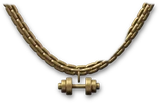
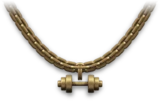
Add the boar GymBro and replace the elephant chain

Changed region(s): [[0.0, 0.0, 1.0, 0.9505]]

diff --git a/app.js b/app.js
@@ -1,8 +1,7 @@
 import { supabase } from './supabase.mjs';
 import {t,setLanguage,uiLocale} from './locale.mjs';
 import {lifts,liftResults,clanProfile,workoutRecord,workoutActivities,clanRequest,friendsRequest,profileRequest} from './clans.mjs';
-import {layout} from './assets/layout.js';
-import {muscleTargets} from './assets/muscle-targets.mjs';
+import {models,modelFor} from './models.mjs';
 import {items,wardrobeFrom,legacyProgress,progression,buyItem,toggleItem,XP_PER_DAY,XP_PER_RECORD,COINS_PER_LEVEL} from './gymbro.mjs';
 import {plans,muscles,standard,example,normalize,weightsFor,completedCount,newDraft,blankSet,newId,previousBest,exerciseHistory,numberedCompletedSets,exerciseConfig,MAX_PLAN_SETS,MAX_PLAN_REPS,elapsedSeconds,remainingSeconds,timeLabel,statsFor,dayKey,weekKeys,recentSessions} from './training.mjs';
 
@@ -153,6 +152,7 @@ const route=()=>Object.hasOwn(views,location.hash.slice(1))?location.hash.slice(
 
 function preferredSide(session){
   if(!session) return 'przod';
+  const {layout}=activeModel();
   const {map}=statsFor([session],data.custom,data.threshold);
   const total=side=>Object.keys(layout[side].warstwy).reduce((sum,key)=>sum+(map[key]?.weighted??0),0);
   return total('tyl')>total('przod')?'tyl':'przod';
@@ -179,6 +179,7 @@ function modelMotionStyle(){
   return '--breath-delay:-'+(elapsed%4200).toFixed(0)+'ms;--aura-delay:-'+(elapsed%5600).toFixed(0)+'ms';
 }
 function stage(context){
+  const {layout,targets:hitAreas,root,id}=activeModel();
   const shape=layout[side];
   const [w,h]=shape.plotno;
   const part=side==='przod'?t('Przód'):t('Tył');
@@ -186,14 +187,14 @@ function stage(context){
     const value=intensity(context,key);
     const opacity=.25+.75*value;
     return '<img class="glow" data-glow="'+key+'" style="--opacity:'+opacity+'" '+(!value?'hidden':'')+' src="'+layer.plik+'" alt="" draggable="false">'+
-      (value?'<img class="muscle-sparks" src="'+layer.plik.replace('assets/','assets/sparks/')+'" style="--spark:'+opacity*.8+'" alt="" draggable="false">':'');
+      (value?'<img class="muscle-sparks" src="'+root+'sparks/'+layer.plik.slice(root.length)+'" style="--spark:'+opacity*.8+'" alt="" draggable="false">':'');
   }).join('');
   const targets='<svg class="muscle-targets" viewBox="0 0 '+w+' '+h+'" aria-label="'+t('Wybierz partię na postaci')+'">'+
     Object.entries(shape.warstwy).map(([key,layer])=>
       '<g role="button" tabindex="0" data-act="muscle" data-key="'+key+'" aria-label="'+esc(t(layer.nazwa))+'">'+
-      '<path fill-rule="evenodd" d="'+muscleTargets[side][key]+'"></path></g>').join('')+'</svg>';
+      '<path fill-rule="evenodd" d="'+hitAreas[side][key]+'"></path></g>').join('')+'</svg>';
   return '<div class="map-stage"><span class="stage-tag">'+(context.demo?t('Dane przykładowe'):(context.latest?'GymBro':t('Brak treningów')))+'</span>'+
-    '<div class="figure" style="aspect-ratio:'+w+'/'+h+'"><img src="assets/'+side+'_baza.webp" alt="GymBro — '+part+'" draggable="false"><img src="assets/'+side+'_kontury.webp" alt="" draggable="false">'+layers+targets+'</div>'+
+    '<div class="figure" data-model="'+id+'" style="aspect-ratio:'+w+'/'+h+'"><img src="'+root+side+'_baza.webp" alt="GymBro — '+part+'" draggable="false"><img src="'+root+side+'_kontury.webp" alt="" draggable="false">'+layers+targets+'</div>'+
     '<span class="stage-axis">'+part+'</span></div>';
 }
 function mapCard(context){
@@ -264,6 +265,7 @@ const skinName=skin=>data.language==='en'?skin.en:skin.name;
 const levelText=level=>t('Poziom')+' '+level;
 const skinLevel=()=>data.skinPreview===null?currentProgress().level:skinTestLevel;
 const activeSkin=()=>data.skinPreview??unlockedSkin(data.wardrobe.skin,currentProgress().level);
+function activeModel(){return modelFor(data.wardrobe.model);}
 function skinTestBadge(){
   return data.skinPreview===null?'':'<p class="skin-test-badge">'+t('Tryb testowy')+' · '+levelText(skinTestLevel)+'</p>';
 }
@@ -281,16 +283,16 @@ function tenureText(months){
   if(!months) return t('Staż krótszy niż miesiąc');
   return tenureDuration(months)+' '+t('stażu');
 }
-function buddyModel(view,preview=null,shine=null,{worn=data.wardrobe.worn,skin=activeSkin()}={}){
-  const [width,height]=layout[view].plotno;
-  const description=view==='przod'?t('GymBro od przodu'):t('GymBro od tyłu');
+function buddyModel(view,preview=null,shine=null,{worn=data.wardrobe.worn,skin=activeSkin(),model=activeModel()}={}){
+  const [width,height]=model.layout[view].plotno;
+  const description=t(model.name)+' · '+t(view==='przod'?'Przód':'Tył');
   const visible=items.filter(item=>(worn.includes(item.id)||preview===item.id)&&(view==='przod'||item.back));
-  const asset='assets/ubrania/'+view+'-';
+  const asset=model.root+'ubrania/'+view+'-';
   const glint=visible.some(item=>item.id===shine)?
     '<span class="outfit-glint" aria-hidden="true" style="--outfit-mask:url('+asset+shine+'.webp)"></span>':'';
   const base=asset+'baza.webp';
   const finish=skin==='default'?'':'<span class="buddy-finish" style="--buddy-art:url('+base+')" aria-hidden="true"></span>';
-  return '<div class="buddy-figure" data-skin="'+esc(skin)+'" style="aspect-ratio:'+width+'/'+height+'"><img class="buddy-base" src="'+base+'" alt="'+description+'" draggable="false">'+finish+
+  return '<div class="buddy-figure" data-model="'+model.id+'" data-skin="'+esc(skin)+'" style="aspect-ratio:'+width+'/'+height+'"><img class="buddy-base" src="'+base+'" alt="'+description+'" draggable="false">'+finish+
     visible.map(item=>'<img src="'+asset+item.id+'.webp" data-worn="'+item.id+'" alt="'+t(item.name)+'" draggable="false">').join('')+glint+'</div>';
 }
 function homeBuddy(){
@@ -306,7 +308,7 @@ function wardrobeItem(item,coins){
   const wearing=worn.includes(item.id);
   const trying=tryOn===item.id;
   const attr=' type="button" data-key="'+item.id+'"';
-  return '<article class="outfit-row"><div class="outfit-thumb"><img src="assets/ubrania/produkt-'+item.id+'.webp" alt=""></div>'+
+  return '<article class="outfit-row"><div class="outfit-thumb"><img src="'+activeModel().root+'ubrania/produkt-'+item.id+'.webp" alt=""></div>'+
     '<div class="outfit-description"><h3>'+t(item.name)+'</h3><span class="meta">'+t(item.slot)+(wearing?' '+t('· Założone'):fits?' '+t('· Kupione'):'')+'</span>'+
     '<div class="outfit-actions">'+(fits?'<button class="btn ghost" data-act="outfit-toggle"'+attr+' aria-label="'+(wearing?t('Zdejmij')+' ':t('Załóż')+' ')+t(item.name)+'">'+(wearing?t('Zdejmij'):t('Załóż'))+'</button>':
       '<button class="btn ghost" data-act="outfit-try"'+attr+' aria-pressed="'+trying+'" aria-label="'+t('Przymierz:')+' '+t(item.name)+'">'+(trying?t('Zakończ podgląd'):t('Przymierz'))+'</button>'+
@@ -338,6 +340,7 @@ function showGymBro(shine){
   return heading(t('Twój')+' <em>GymBro</em>',t('Personalizuj postać i odblokowuj ubranka za monety.'))+
     '<div class="stack"><section class="card card-pad buddy-card"><div class="card-head">'+
     segment(t('Widok GymBro'),avatarSide,[['przod',t('Przód')],['tyl',t('Tył')]],'avatar-side')+coinBalance(player.coins)+'</div>'+
+    segment(t('Postać GymBro'),activeModel().id,models.map(({id,name})=>[id,t(name)]),'select-model')+
     '<div class="buddy-stage" style="'+modelMotionStyle()+'">'+buddyModel(avatarSide,tryOn,shine)+
     (preview?'<span class="buddy-preview-tag">'+t('Przymiarka ·')+' '+t(preview.name)+'</span>':'')+'</div>'+skinTestBadge()+xpBar(player)+streakInfo(player)+
     '<p class="meta xp-note">'+XP_PER_DAY+' '+t('XP za pierwszy zapisany trening dnia, z mnożnikiem do ×1,5 za tygodnie z rzędu. Pierwszy nowy rekord dnia daje dodatkowe')+' '+XP_PER_RECORD+' '+t('XP. Za każdy awans dostajesz')+' '+COINS_PER_LEVEL+' '+t('monet')+'.</p></section>'+
@@ -421,6 +424,7 @@ function showHome(){
 }
 function showMap(){
   const context=mapData();
+  const {layout}=activeModel();
   const chips=Object.entries(layout[side].warstwy)
     .sort(([a],[b])=>intensity(context,b)-intensity(context,a))
     .map(([key,m])=>'<button type="button" class="muscle" data-act="muscle" data-key="'+key+'"><b>'+esc(t(m.nazwa))+'</b><span><i style="width:'+100*intensity(context,key)+'%"></i></span></button>').join('');
@@ -584,7 +588,7 @@ function liftCards(results={}){
 }
 function profileAvatar(person,own=false){
   if(own) return buddyModel('przod');
-  return buddyModel('przod',null,null,{worn:person.worn??[],skin:person.previewSkin??person.skin??'default'});
+  return buddyModel('przod',null,null,{worn:person.worn??[],skin:person.previewSkin??person.skin??'default',model:modelFor(person.model)});
 }
 function clanLeaderBadge(id){
   return id===clanState.clan?.ownerId?'<span class="clan-leader-badge">'+t('Lider')+'</span>':'';
@@ -1106,7 +1110,7 @@ function openMuscle(key){
     } else if (!layer.hidden) layer.style.opacity='.25';
     layer.style.animation='none';
   }
-  openModal(esc(t(layout[side].warstwy[key].nazwa)),
+  openModal(esc(t(activeModel().layout[side].warstwy[key].nazwa)),
     (context.demo?'<p class="meta">'+t('Przykładowe obciążenie')+'</p>':'<div class="stats"><div><span class="meta">'+t('Liczba serii')+'</span><strong>'+(stat?.sets??0)+'</strong></div><div><span class="meta">'+t('Ostatni trening')+'</span><strong>'+
     (stat?.recent?formatter.format(stat.recent):'–')+'</strong></div></div>')+
     '<p class="meta">'+t('Intensywność na mapie:')+' '+Math.round(value*100)+'%</p>'+action(t('Zamknij'),'close','primary'));
@@ -1334,12 +1338,13 @@ function showPicker(){
   drawCatalog();
 }
 function catalogThumb(label){
+  const {layout,root}=activeModel();
   const frames=previewFrames(layout,weightsFor(label,data.custom));
   if(!frames.length) return '<span class="catalog-thumb" aria-hidden="true">'+icon('dumbbell')+'</span>';
   return '<span class="catalog-thumb '+(frames.length>1?'dual':'')+'" aria-hidden="true">'+frames.map(frame=>
     '<span class="catalog-frame" data-preview-side="'+frame.side+'" data-preview-muscles="'+frame.keys.join(',')+'">'+
     '<span class="catalog-zoom" style="width:'+frame.width+'%;height:'+frame.height+'%;left:'+frame.left+'%;top:'+frame.top+'%">'+
-    '<img class="catalog-base" src="assets/'+frame.side+'_baza.webp" loading="lazy" alt="">'+
+    '<img class="catalog-base" src="'+root+frame.side+'_baza.webp" loading="lazy" alt="">'+
     frame.files.map(file=>'<img src="'+file+'" loading="lazy" alt="">').join('')+'</span></span>').join('')+'</span>';
 }
 function openOwnExercise(){
@@ -1787,6 +1792,16 @@ document.addEventListener('click',async event=>{
       confirmModal(t('Opuścić klan?'),t('Aby wrócić, użyj kodu zaproszenia.'),'clan-confirm-leave',t('Opuść klan'));break;
     case 'clan-confirm-leave':leaveClan();break;
     case 'avatar-side':avatarSide=key;render();break;
+    case 'select-model':{
+      const model=modelFor(key);
+      if(model.id!==key||model.id===activeModel().id) break;
+      data.wardrobe.model=model.id;
+      rememberAppearance();
+      render();
+      app.querySelector('[data-act="select-model"][data-key="'+key+'"]')?.focus({preventScroll:true});
+      syncSocialProfiles();
+      break;
+    }
     case 'wardrobe-tab':
       wardrobeTab=key;tryOn=null;render();break;
     case 'open-shop':wardrobeTab='sklep';render();break;
@@ -1916,7 +1931,7 @@ async function loadCloudData(){
   const {data:prof}=await supabase.from('profiles').select('username,app_data').eq('id',user.id).maybeSingle();
   if(prof?.username) nickname=prof.username;
   if(prof?.app_data&&typeof prof.app_data==='object'){
-    data={...data,...prof.app_data};
+    data={...data,...prof.app_data,wardrobe:wardrobeFrom(prof.app_data.wardrobe??data.wardrobe)};
     savedRestPushSignature=restPushSignature(data.draft?.rest);
     localStorage.setItem(storage,JSON.stringify(data));
   }
